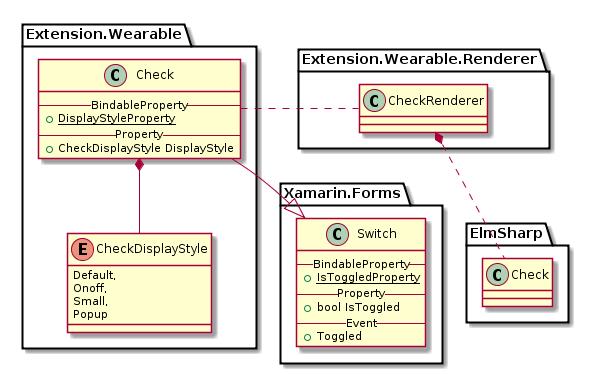
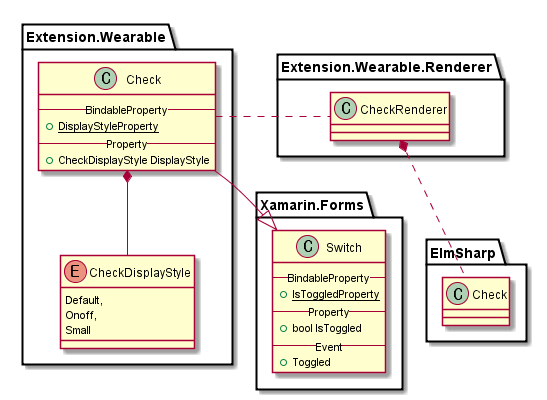
modify Slider/ContextPopup/Check design doc

Changed region(s): [[0.0311, 0.0588, 0.9945, 1.0]]

diff --git a/doc/design/README.onepage.md b/doc/design/README.onepage.md
@@ -298,6 +298,7 @@ public class CircleSliderSurfaceItem : ICircleSurfaceItem
     public double Minimum { get; set; }
     public double Maximum { get; set; }
     public double Value { get; set; }
+    public double Increment { get; set; }
     public bool IsVisible { get; set; }
     public bool IsEnabled { get; set; }
 }
@@ -366,20 +367,19 @@ item이 1개 일 경우 Popup 전체를 , 2개의 경우 위 아래 나뉘어서
  ```C#
  public class ContextPopup : BindableObject
  {
-     public static readonly BindableProperty IsAutoHidingEnabledProperty;
      public static readonly BindableProperty SelectedIndexProperty;
      public static readonly BindableProperty SelectedItemProperty;
 
      public event EventHandler<SelectedItemChangedEventArgs> ItemSelected;
      public event EventHandler Dismissed;
 
-     public bool IsAutoHidingEnabled  { get; set; }
      public int SelectedIndex { get; set; }
      public ContextPopupItem SelectedItem { get; set; }
      public IList<ContextPopupItem> Items { get; }
 
      public void Show(View anchor);
      public void Show(View anchor, int xOffset, int yOffset);
+     public void Show(View anchor, double xOffset, double yOffset);
      public void Dismiss();
  }
 
@@ -448,8 +448,7 @@ item이 1개 일 경우 Popup 전체를 , 2개의 경우 위 아래 나뉘어서
  {
       Default,
       Onoff,
-      Small,
-      Popup
+      Small
  }
 
  ```

diff --git a/doc/design/part08.ContextPopup.md b/doc/design/part08.ContextPopup.md
@@ -18,20 +18,19 @@ item이 1개 일 경우 Popup 전체를 , 2개의 경우 위 아래 나뉘어서
  ```C#
  public class ContextPopup : BindableObject
  {
-     public static readonly BindableProperty IsAutoHidingEnabledProperty;
      public static readonly BindableProperty SelectedIndexProperty;
      public static readonly BindableProperty SelectedItemProperty;
 
      public event EventHandler<SelectedItemChangedEventArgs> ItemSelected;
      public event EventHandler Dismissed;
 
-     public bool IsAutoHidingEnabled  { get; set; }
      public int SelectedIndex { get; set; }
      public ContextPopupItem SelectedItem { get; set; }
      public IList<ContextPopupItem> Items { get; }
 
      public void Show(View anchor);
      public void Show(View anchor, int xOffset, int yOffset);
+     public void Show(View anchor, double xOffset, double yOffset);
      public void Dismiss();
  }
 

diff --git a/doc/design/part06.CircleSliderSurfaceItem.md b/doc/design/part06.CircleSliderSurfaceItem.md
@@ -53,6 +53,7 @@ public class CircleSliderSurfaceItem : ICircleSurfaceItem
     public double Minimum { get; set; }
     public double Maximum { get; set; }
     public double Value { get; set; }
+    public double Increment { get; set; }
     public bool IsVisible { get; set; }
     public bool IsEnabled { get; set; }
 }

diff --git a/doc/design/part10.Check.md b/doc/design/part10.Check.md
@@ -26,8 +26,7 @@
  {
       Default,
       Onoff,
-      Small,
-      Popup
+      Small
  }
 
  ```
